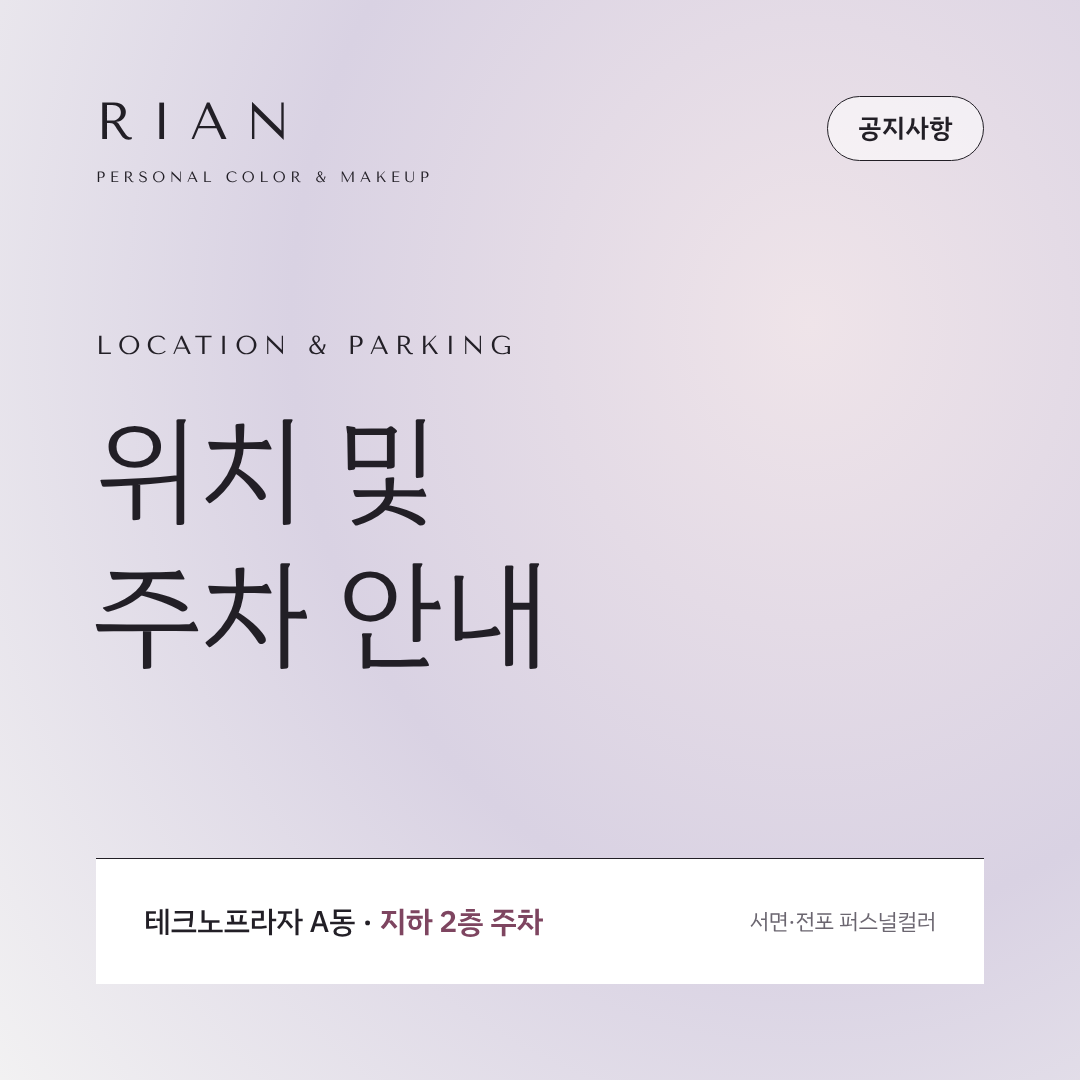
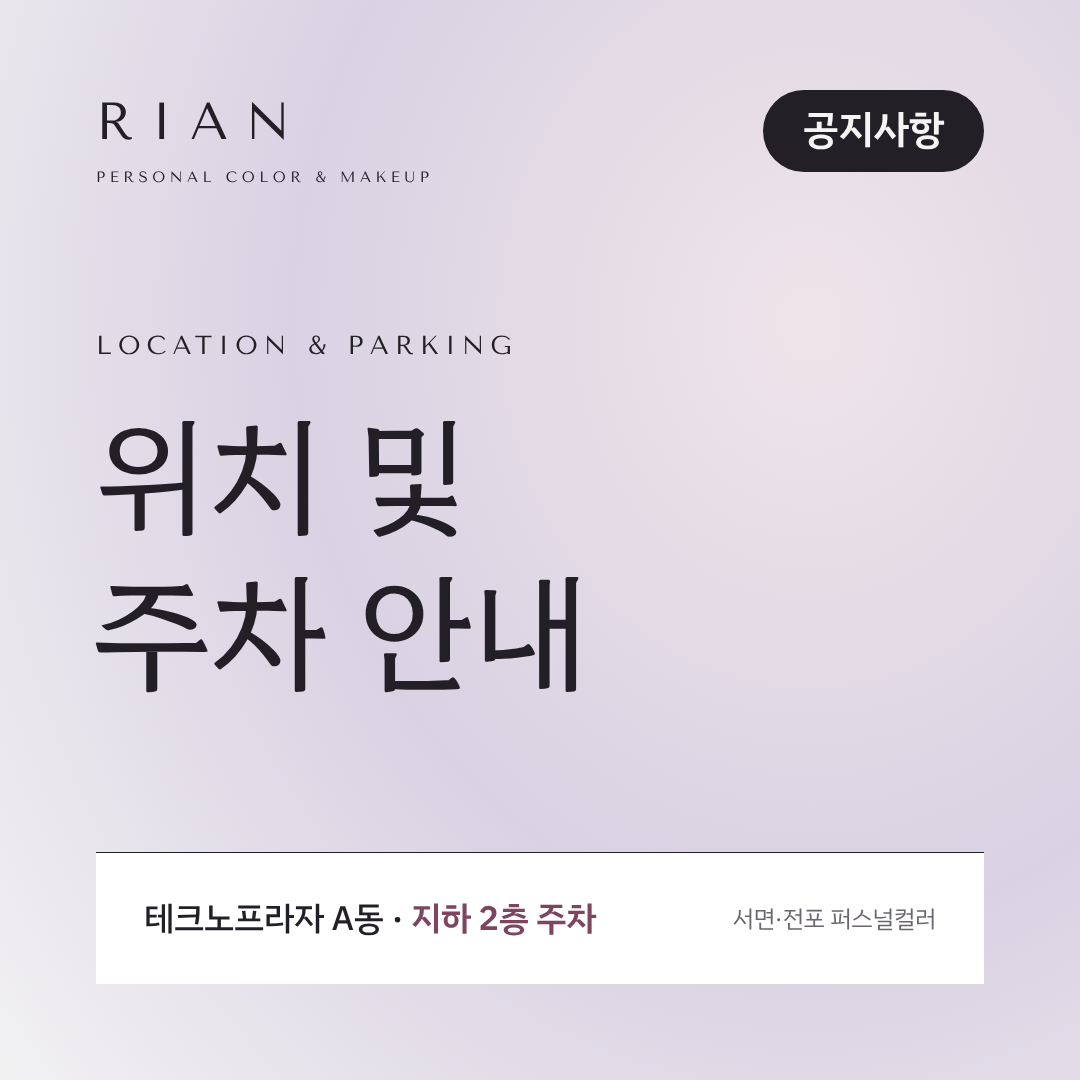
썸네일 가독성 개선: 카테고리 반전 칩, 제목 굵기·크기 키움
Claude-Session: https://claude.ai/code/session_01XKDV1X6rkbmcZa6jzWqbdg

diff --git a/work/2026-11-23-naver-guide/thumbnails/thumbnail.html b/work/2026-11-23-naver-guide/thumbnails/thumbnail.html
@@ -11,14 +11,14 @@ body{background:var(--raw)}
 .head{display:flex;justify-content:space-between;align-items:flex-start}
 .logo b{display:block;font-family:"Tenor Sans",serif;font-weight:400;font-size:52px;letter-spacing:.34em;line-height:1}
 .logo span{display:block;margin-top:20px;font-family:"Tenor Sans",serif;font-size:15px;letter-spacing:.3em}
-.cat{font-size:26px;font-weight:600;letter-spacing:.02em;padding:12px 30px;border:1.5px solid var(--onyx);border-radius:999px;background:rgba(255,255,255,.55)}
+.cat{font-size:40px;font-weight:600;line-height:1;letter-spacing:-.01em;color:var(--raw);background:var(--onyx);padding:20px 40px 22px;border-radius:999px;margin-top:-6px}
 .label{position:absolute;left:96px;top:330px;font-family:"Tenor Sans",serif;font-size:26px;letter-spacing:.24em}
-h1{position:absolute;left:92px;top:390px;font-family:"Hahmlet",serif;font-weight:300;font-size:118px;line-height:1.22;letter-spacing:-.02em}
+h1{position:absolute;left:92px;top:390px;font-family:"Hahmlet",serif;font-weight:400;font-size:128px;line-height:1.22;letter-spacing:-.02em}
 .panel{position:absolute;left:96px;right:96px;bottom:96px;background:var(--white);border-top:1px solid var(--onyx);
   padding:40px 48px;display:flex;justify-content:space-between;align-items:center}
-.panel p{font-size:30px;font-weight:500;letter-spacing:-.01em}
+.panel p{font-size:34px;font-weight:500;letter-spacing:-.01em}
 .panel p em{font-style:normal;color:var(--tour);font-weight:600}
-.panel small{font-size:22px;color:var(--slate);letter-spacing:-.01em}
+.panel small{font-size:24px;color:var(--slate);letter-spacing:-.01em}
 </style></head>
 <body>
 <div class="card" id="c">
